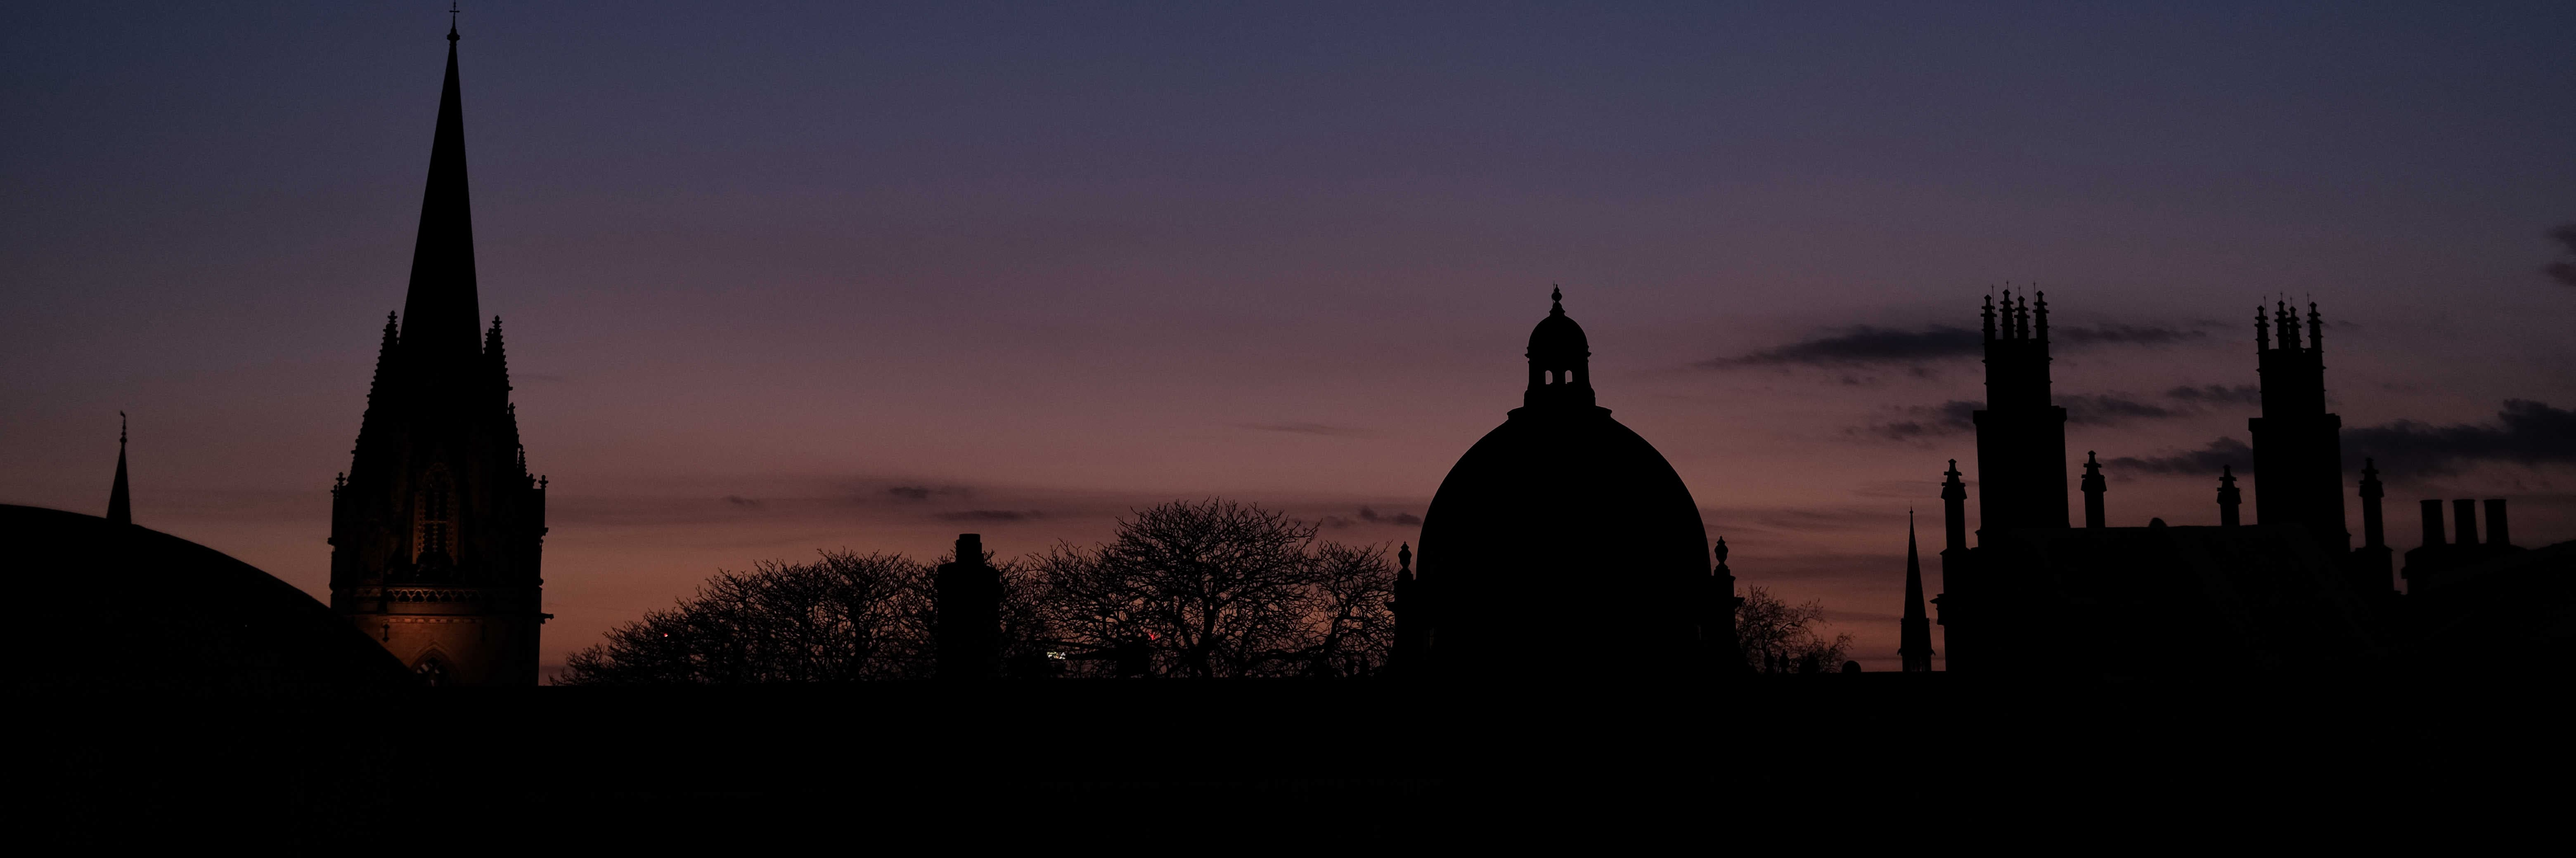
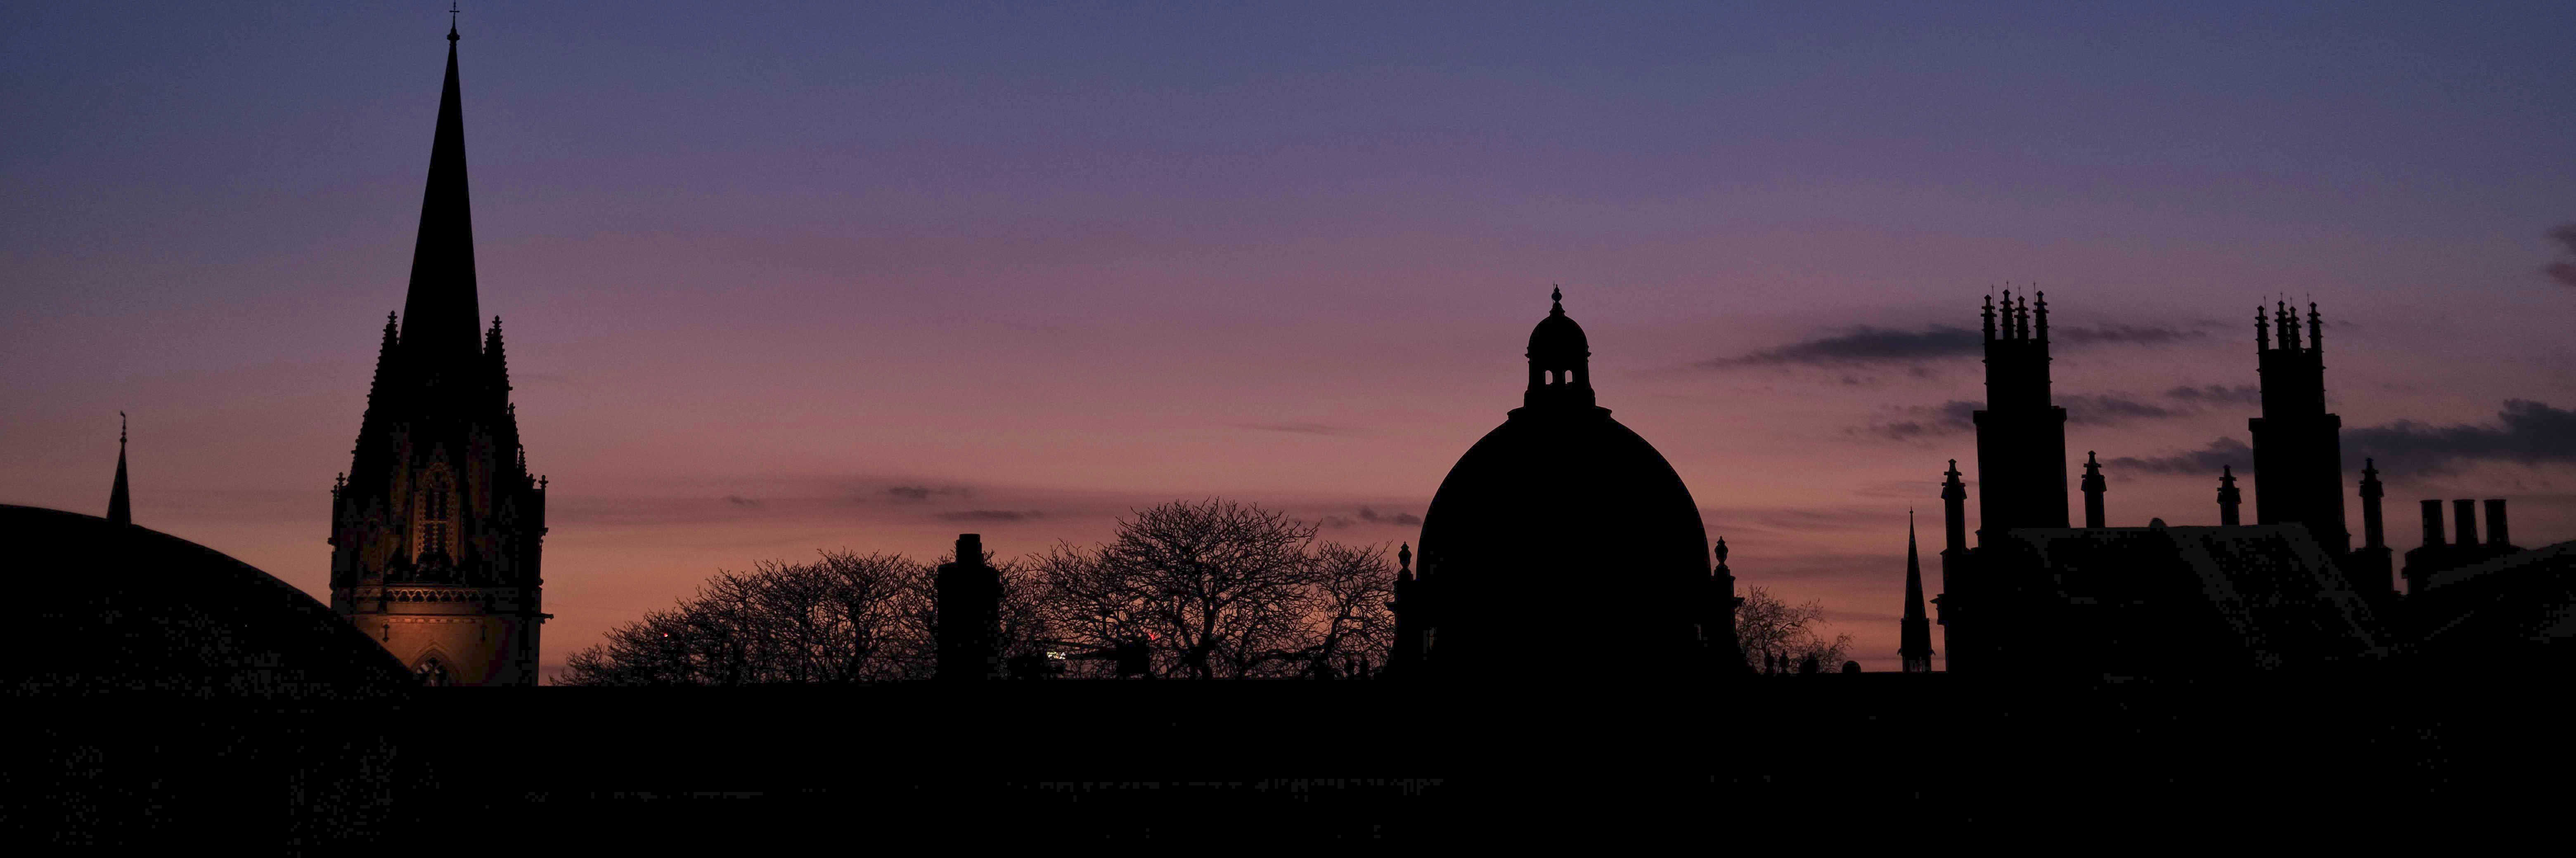
Update Cover

diff --git a/_sass/_archive.scss b/_sass/_archive.scss
@@ -158,7 +158,7 @@
   width: 100%;
   height: 12em;
   margin: 1em;
-  --bg-filter-opacity: 0.35;
+  --bg-filter-opacity: 0.4;
 
   background-size: cover;
   background-position: center;
